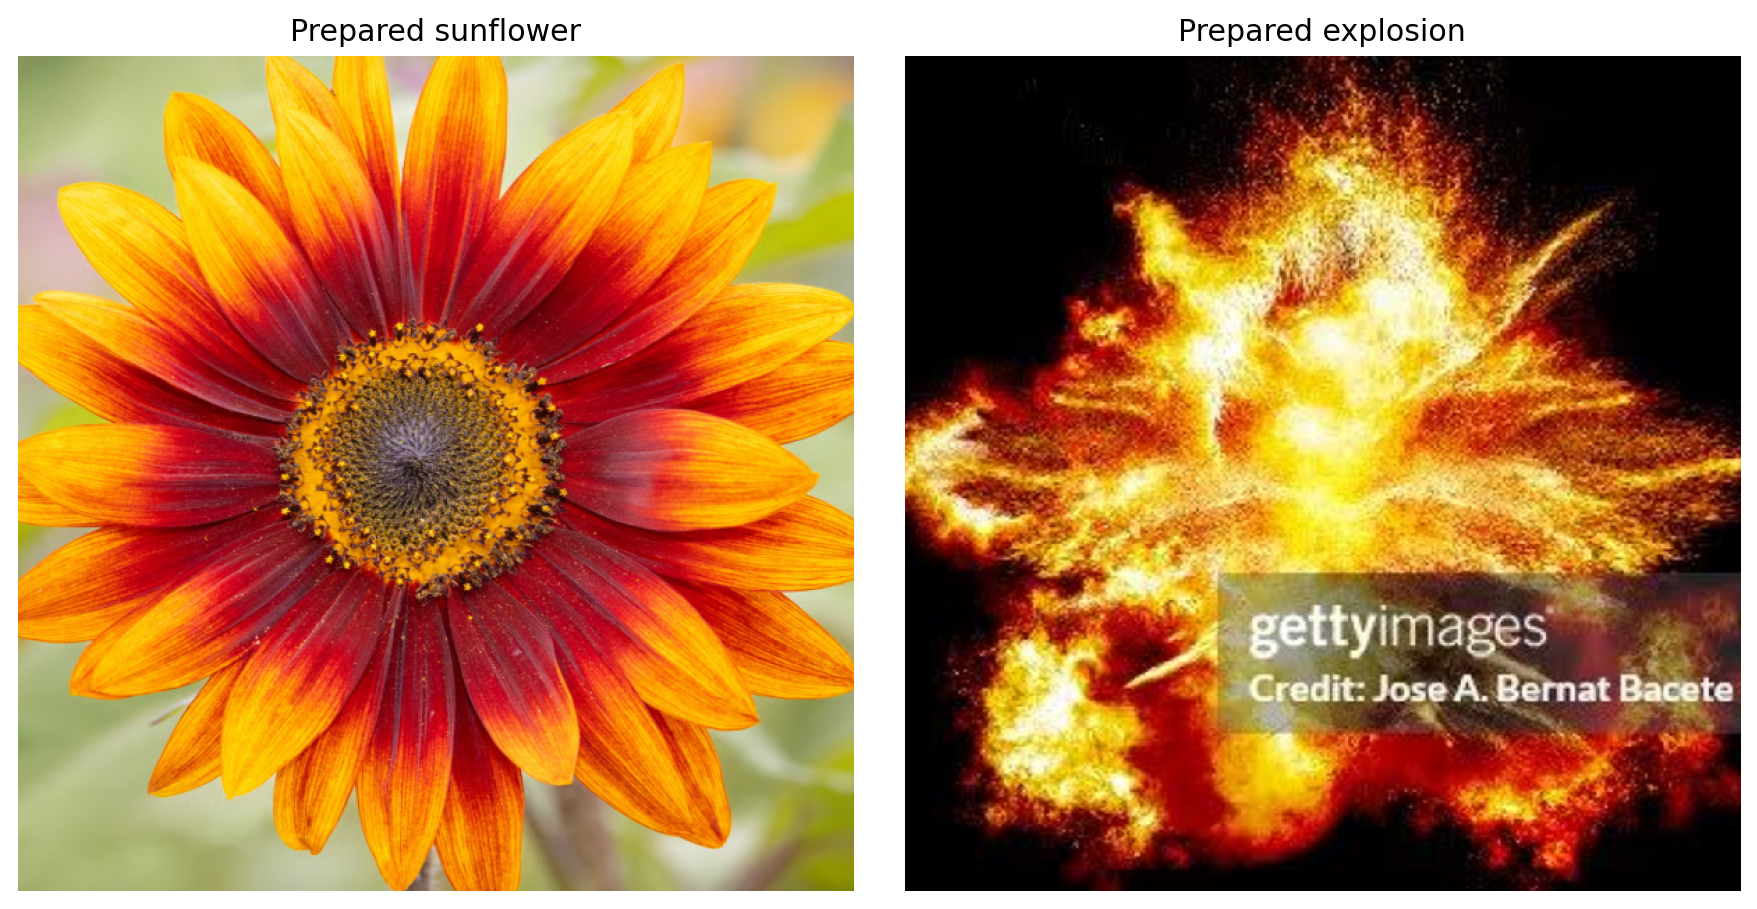
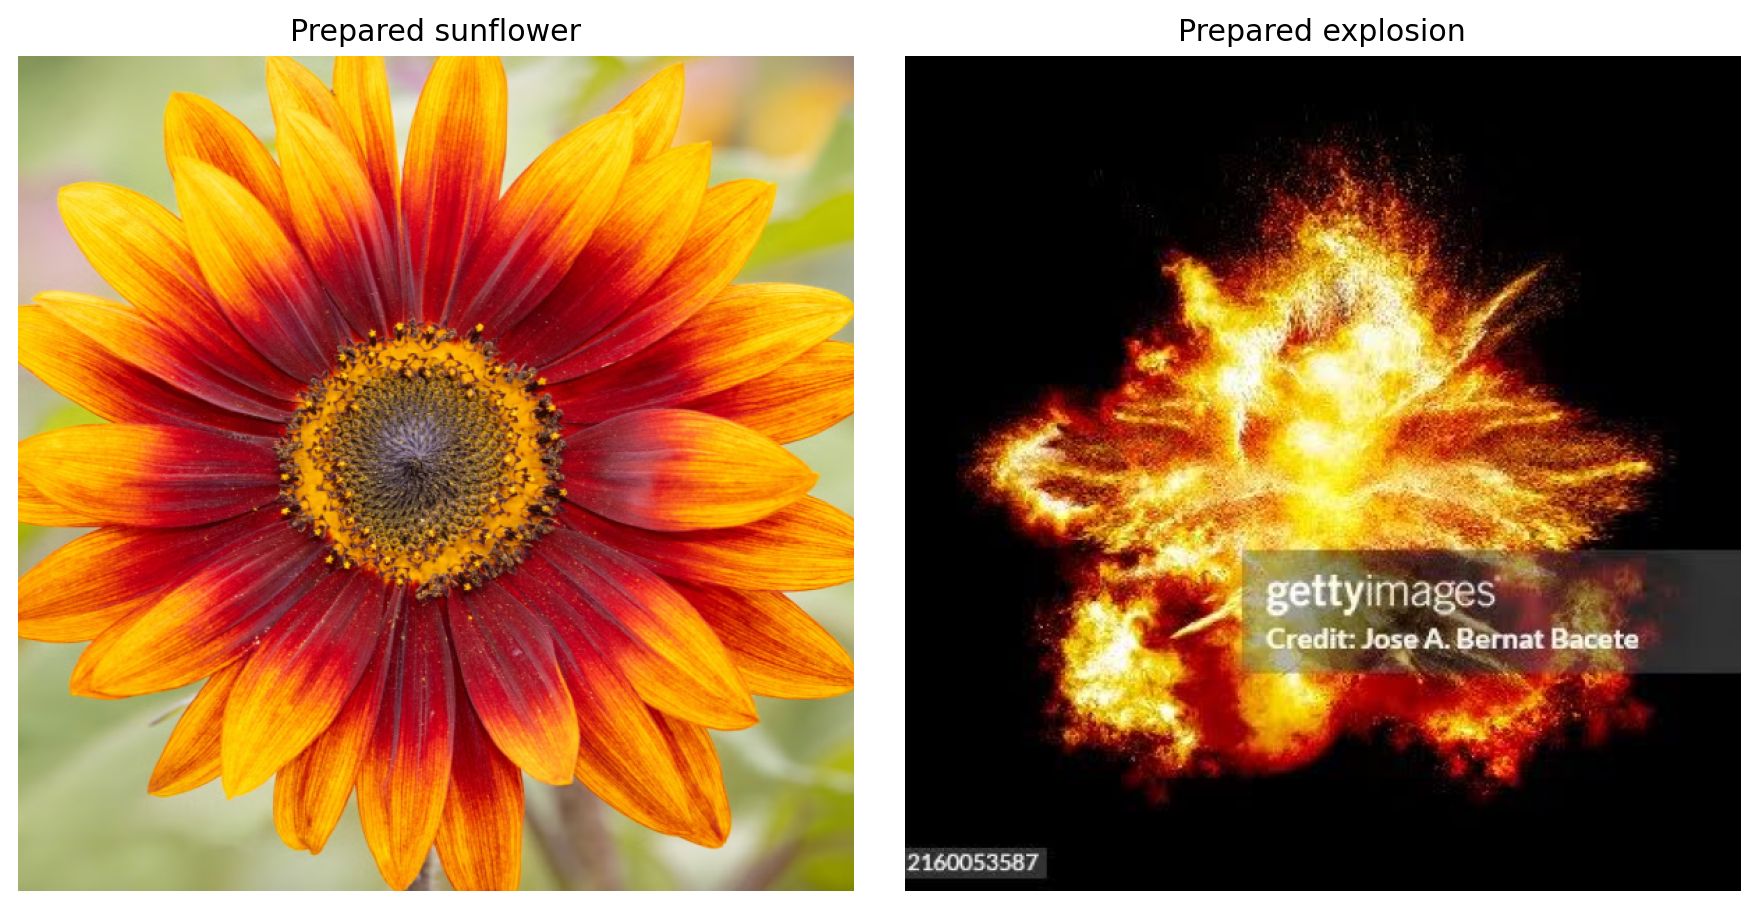
Use horizontal sunflower explosion blend

Changed region(s): [[0.4917, 0.0616, 1.0, 0.9857]]

diff --git a/projects/project2/index.html b/projects/project2/index.html
@@ -424,9 +424,9 @@ blend = sum(blended_laplacian)</code></pre>
         <div class="project-grid">
           <article class="project-card">
             <div class="project-card-body">
-              <h3>Irregular mask: sunflower and explosion</h3>
-              <p>For a non-linear mask, I traced a larger wavy boundary across the sunflower’s petal ring. The enlarged explosion fills the upper region from the top edge and can extend beyond the flower’s outer boundary, while the original sunflower remains below the traced curve.</p>
-              <pre><code>mask = petal_trace_mask(sunflower.shape)
+              <h3>Horizontal blend: explosion and sunflower</h3>
+              <p>I used the standalone explosion and sunflower as the two baseline images. A horizontal half-image mask selects the top half of the explosion and the bottom half of the sunflower. Blurring the mask at each stack level softens the transition across the center seam.</p>
+              <pre><code>mask = horizontal_mask(sunflower.shape)
 mask_stack = gaussian_stack(mask, 4)
 blend = multiresolution_blend(
     explosion, sunflower, mask
@@ -436,9 +436,9 @@ blend = multiresolution_blend(
         </div>
         <div class="source-plate-grid">
           <figure><img src="sunflower_explosion_prepared_inputs.png" alt="Prepared sunflower and explosion inputs"><figcaption>Prepared sunflower and explosion inputs</figcaption></figure>
-          <figure><img src="sunflower_explosion_petal_mask.png" alt="Larger wavy mask traced from the sunflower petal region"><figcaption>Expanded petal-trace mask</figcaption></figure>
+          <figure><img src="sunflower_explosion_horizontal_mask.png" alt="Horizontal mask selecting the upper half for the explosion"><figcaption>Horizontal half-image mask</figcaption></figure>
           <figure><img src="sunflower_explosion_laplacian_blend.png" alt="Laplacian stack contributions and combined levels for the sunflower and explosion blend"><figcaption>Laplacian-stack blending process</figcaption></figure>
-          <figure><img src="sunflower_explosion_blend.png" alt="Final sunflower with an explosion blended into the upper semicircle"><figcaption>Final sunflower/explosion blend</figcaption></figure>
+          <figure><img src="sunflower_explosion_blend.png" alt="Final blend with the explosion on top and sunflower on the bottom"><figcaption>Explosion top, sunflower bottom</figcaption></figure>
         </div>
       </section>
     </main>

diff --git a/projects/project2/blend.py b/projects/project2/blend.py
@@ -36,62 +36,10 @@ def vertical_mask(shape):
     return mask
 
 
-def semicircle_mask(shape, center=(0.5, 0.60), radius=(0.52, 0.54)):
-    height, width = shape[:2]
-    y, x = np.mgrid[:height, :width]
-    cx = center[0] * width
-    cy = center[1] * height
-    rx = radius[0] * width
-    ry = radius[1] * height
-    upper_semicircle = ((x - cx) / rx) ** 2 + ((y - cy) / ry) ** 2 <= 1
-    upper_semicircle &= y <= cy
-    return np.repeat(upper_semicircle[:, :, None].astype(float), 3, axis=2)
-
-
-def petal_trace_mask(shape):
-    """Fill the area above a traced, wavy boundary following the petal ring."""
-    height, width = shape[:2]
-    trace = np.array([
-        (0.00, 0.50),
-        (0.07, 0.53),
-        (0.14, 0.47),
-        (0.21, 0.53),
-        (0.29, 0.47),
-        (0.37, 0.52),
-        (0.45, 0.47),
-        (0.53, 0.52),
-        (0.61, 0.47),
-        (0.69, 0.53),
-        (0.77, 0.47),
-        (0.84, 0.53),
-        (0.92, 0.47),
-        (1.00, 0.50),
-    ])
-    boundary = [(round(x * (width - 1)), round(y * (height - 1))) for x, y in trace]
-    polygon = [(0, 0), (width - 1, 0)] + list(reversed(boundary))
-    mask = np.zeros((height, width), dtype=np.uint8)
-    cv2.fillPoly(mask, [np.array(polygon, dtype=np.int32)], 1)
-    return np.repeat(mask[:, :, None].astype(float), 3, axis=2)
-
-
-def scale_center_crop(image, scale):
-    height, width = image.shape[:2]
-    resized = cv2.resize(
-        image,
-        (round(width * scale), round(height * scale)),
-        interpolation=cv2.INTER_CUBIC,
-    )
-    top = (resized.shape[0] - height) // 2
-    left = (resized.shape[1] - width) // 2
-    return resized[top:top + height, left:left + width]
-
-
-def remove_dark_background(foreground, background):
-    """Keep bright explosion pixels and use the sunflower behind dark pixels."""
-    brightness = np.max(foreground, axis=2)
-    alpha = np.clip((brightness - 0.015) / 0.16, 0, 1)
-    alpha = cv2.GaussianBlur(alpha, (0, 0), 3)[:, :, None]
-    return alpha * foreground + (1 - alpha) * background
+def horizontal_mask(shape):
+    mask = np.zeros(shape, dtype=float)
+    mask[:mask.shape[0] // 2, :, :] = 1
+    return mask
 
 
 def multiresolution_blend(left_image, right_image, mask):
@@ -208,8 +156,7 @@ plt.imsave(PROJECT_DIR / "lion_tiger_blend.png", lion_tiger)
 
 sunflower = prepare_image("sunflower.png")
 explosion = prepare_image("explosion.png")
-explosion = scale_center_crop(explosion, 1.30)
-sunflower_mask = petal_trace_mask(sunflower.shape)
+sunflower_mask = horizontal_mask(sunflower.shape)
 sunflower_mask_stack = gaussian_stack(sunflower_mask, STACK_LEVELS)
 explosion_laplacian = laplacian_stack(gaussian_stack(explosion, STACK_LEVELS))
 flower_laplacian = laplacian_stack(gaussian_stack(sunflower, STACK_LEVELS))
@@ -226,7 +173,7 @@ save_pair(
     "Prepared sunflower",
     "Prepared explosion",
 )
-save_mask(sunflower_mask, "sunflower_explosion_petal_mask.png")
+save_mask(sunflower_mask, "sunflower_explosion_horizontal_mask.png")
 save_blend_process(
     explosion_laplacian,
     flower_laplacian,
@@ -234,6 +181,6 @@ save_blend_process(
     "sunflower_explosion_laplacian_blend.png",
     "Explosion",
     "Sunflower",
-    "Sunflower/explosion semicircle blend",
+    "Explosion top / sunflower bottom blend",
 )
 plt.imsave(PROJECT_DIR / "sunflower_explosion_blend.png", sunflower_explosion)
